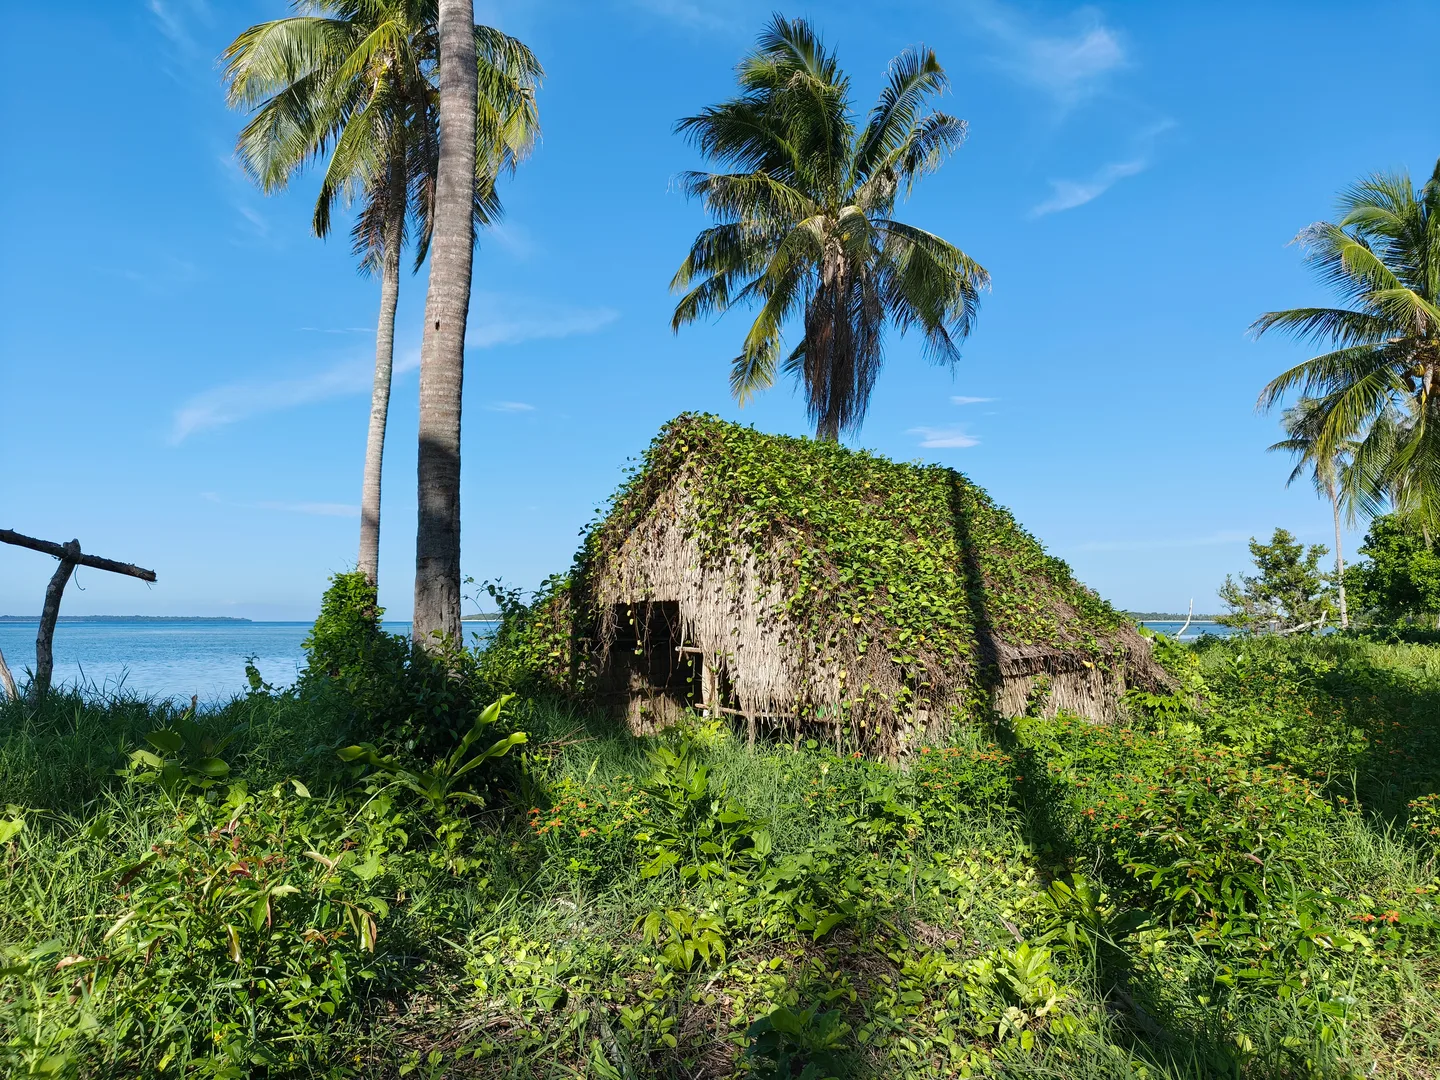
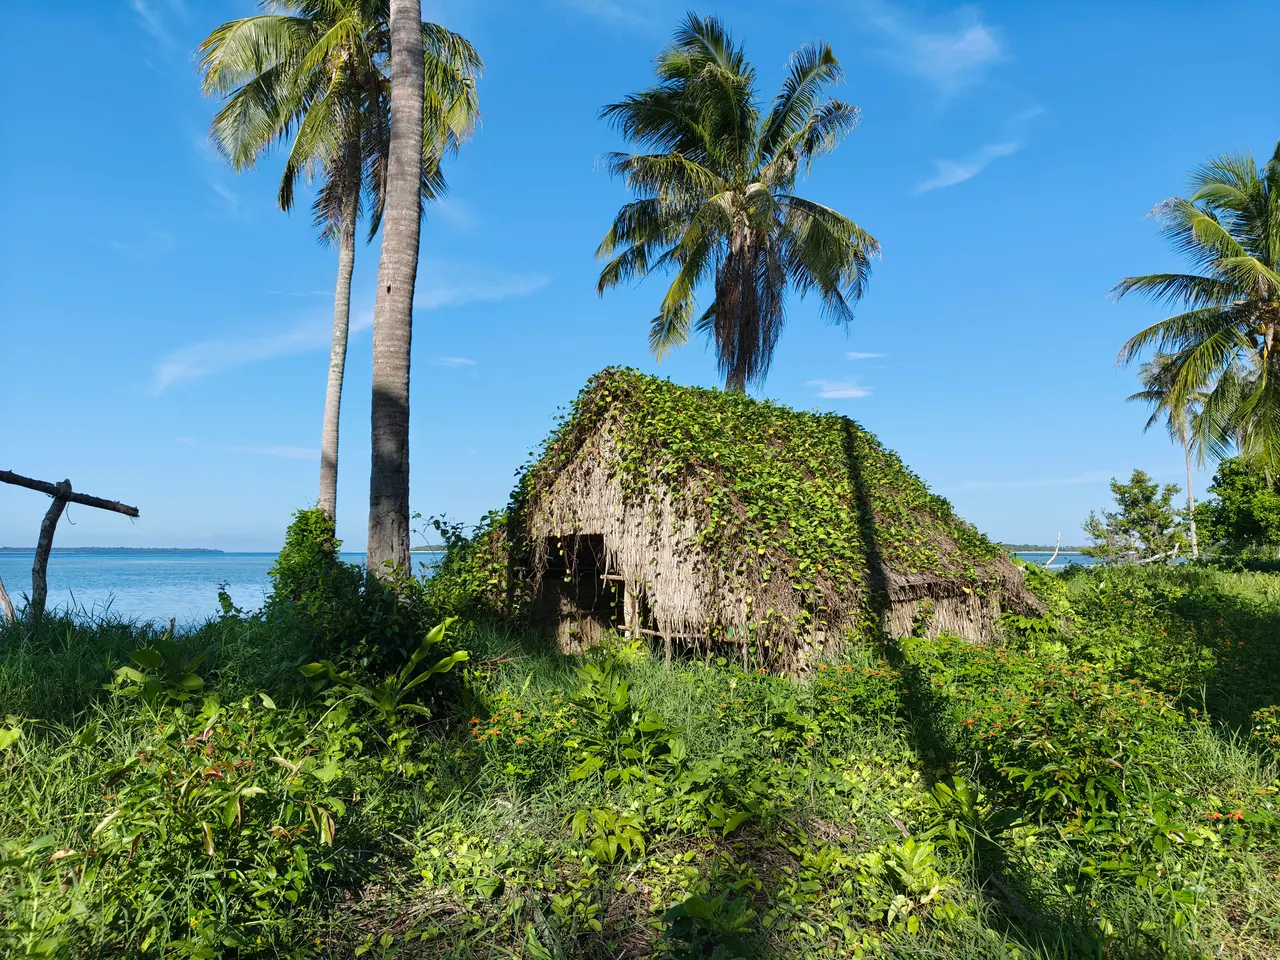
Carousel: preload slide images and decode before showing; shrink Sicsican/village images

diff --git a/src/main.js b/src/main.js
@@ -67,14 +67,19 @@ let current = 0;
 
 function goTo(i) {
   current = i;
+  dots.forEach((d, di) => d.classList.toggle('active', di === i));
   carouselImg.style.opacity = 0;
   setTimeout(() => {
-    carouselImg.src = slides[i].img;
-    carouselImg.alt = slides[i].caption;
-    carouselCaption.textContent = slides[i].caption;
-    carouselImg.style.opacity = 1;
+    const next = new Image();
+    next.src = slides[i].img;
+    const show = () => {
+      carouselImg.src = slides[i].img;
+      carouselImg.alt = slides[i].caption;
+      carouselCaption.textContent = slides[i].caption;
+      carouselImg.style.opacity = 1;
+    };
+    (next.decode ? next.decode().then(show).catch(show) : show());
   }, 300);
-  dots.forEach((d, di) => d.classList.toggle('active', di === i));
 }
 
 if (dots.length > 0) {
@@ -99,6 +104,22 @@ if (carouselEl) {
   carouselEl.addEventListener('mouseenter', () => { if (carouselTimer) clearInterval(carouselTimer); });
   carouselEl.addEventListener('mouseleave', resetTimer);
 }
+
+// Warm the cache for the non-initial slides so switching is instant instead of
+// lingering on the first (Island Hopping) image while the others download.
+let slidesPreloaded = false;
+function preloadSlides() {
+  if (slidesPreloaded) return;
+  slidesPreloaded = true;
+  slides.forEach(s => { const im = new Image(); im.src = s.img; });
+}
+if (carouselEl) {
+  const pobs = new IntersectionObserver((entries, obs) => {
+    if (entries.some(e => e.isIntersecting)) { preloadSlides(); obs.disconnect(); }
+  }, { rootMargin: '600px' });
+  pobs.observe(carouselEl);
+}
+window.addEventListener('load', preloadSlides);
 
 let carouselTimer;
 function resetTimer() {
